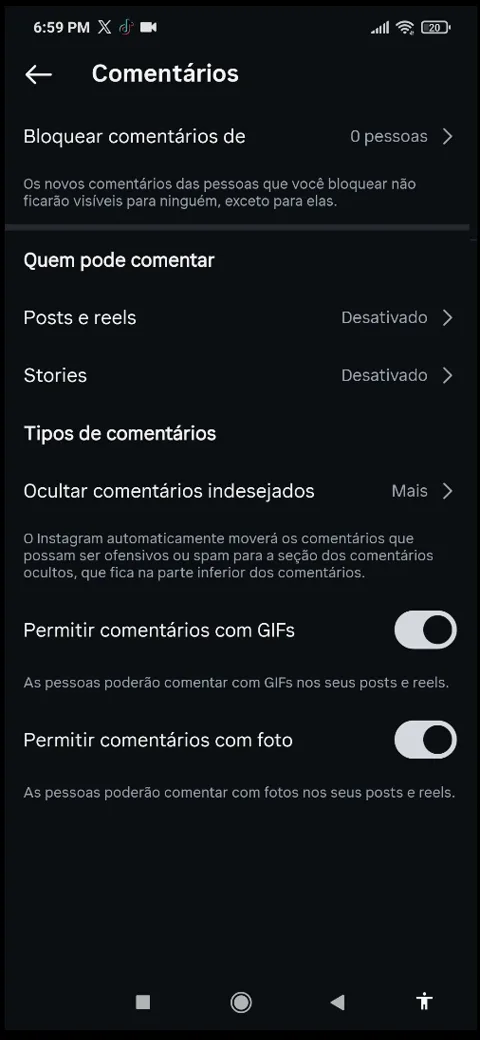
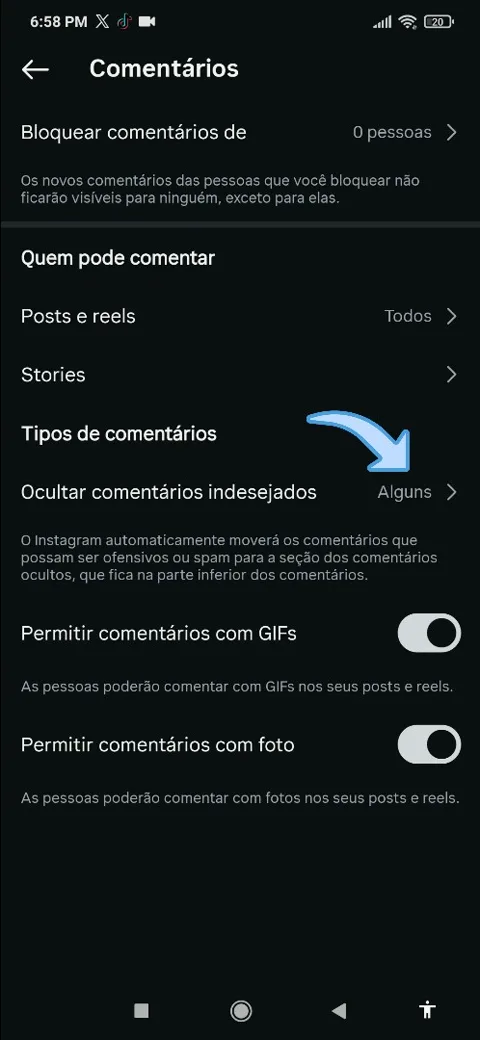
Refaz o passo a passo do Instagram com os prints novos

diff --git a/src/data/platforms.ts b/src/data/platforms.ts
@@ -63,17 +63,17 @@ export const plataformas: Platform[] = [
       {
         title: 'Deixe a conta privada',
         description:
-          'Na conta do menor, toque na foto do perfil, no canto inferior direito, e em seguida nos três riscos. Desça até "Privacidade da conta" e ative "Conta privada". Assim, só quem for aprovado como seguidor poderá ver as publicações, os seguidores e quem o perfil segue.',
+          'Na conta do menor, toque na foto do perfil, no canto inferior direito, e em seguida nos três riscos. Você será levado a tela de "Configuração e atividade". Desça até "Privacidade da conta" e ative "Conta privada". Assim, só quem for aprovado como seguidor poderá ver as publicações, os seguidores e quem o perfil segue.',
       },
       {
         title: 'Controle quem pode mandar mensagem',
         description:
-          'Ainda em "Configurações e atividade", procure "Mensagens e respostas a stories". Ali você decide quem pode enviar mensagem, adicionar a grupos e responder a stories, além de ativar a proteção contra nudez. O indicado é deixar tudo como "Pessoas que você segue" ou "Ninguém". Em "Pedidos de contato" dá para ocultar os pedidos indesejados, e em "Mostrar status da atividade" você esconde quando o perfil está online.',
+          'Ainda em "Configurações e atividade", procure "Mensagens e respostas a stories". Ali você decide quem pode enviar mensagem, adicionar a grupos e responder a stories, além de ativar a proteção contra nudez. O indicado é deixar tudo como "Pessoas que você segue" ou "Ninguém". Em "Pedidos de contato" dá para filtrar quem pode enviar pedidos de contato, adicionar o perfil a grupos e ocultar os pedidos de contato indesejados; em "Respostas a stories", escolhe quem pode respondê-lo; em "Mostrar status da atividade", pode esconder quando o perfil está online.',
       },
       {
         title: 'Filtre comentários e palavras',
         description:
-          'Em "Configurações e atividade", abra "Comentários". Ali você bloqueia comentários de usuários específicos, decide quem pode comentar em stories, posts e reels, e manda ocultar mais comentários que o Instagram considerar ofensivos. Desative também os comentários com GIFs e com foto. Em "Palavras ocultas", escreva a lista de palavras a bloquear: elas passam a ser censuradas nos comentários, e mensagens com essas palavras vão para a pasta de spam.',
+          'Em "Configurações e atividade", abra "Comentários". Ali você bloqueia comentários de usuários específicos, decide quem pode comentar em stories, posts e reels, e ocultar mais comentários que o Instagram considerar ofensivos. Desative também os comentários com GIFs e com foto. Em "Palavras ocultas", escreva a lista de palavras a bloquear: elas passam a ser censuradas nos comentários, e mensagens com essas palavras vão para a pasta de spam.',
       },
       {
         title: 'Filtre marcações e menções',
@@ -83,22 +83,22 @@ export const plataformas: Platform[] = [
       {
         title: 'Ative a Supervisão',
         description:
-          'Este é o passo mais importante, porque é ele que liga a sua conta à do adolescente. Para funcionar, as duas contas precisam se seguir. Na sua conta, abra "Configurações e atividade" e toque em "Supervisão para Contas de Adolescente". Clique em "Continuar", selecione o perfil do menor e em "Enviar convite". Na conta dele, em "Supervisão", o pedido aparece como pendente: basta abrir e clicar em "Aceitar".',
+          'Este é um passo importante, pois liga a sua conta à do adolescente. Para funcionar, as duas contas precisam se seguir. Na sua conta, abra "Configurações e atividade" e toque em "Supervisão para Contas de Adolescente". Clique em "Continuar", selecione o perfil do menor e em "Enviar convite". Na conta dele, abra "Configurações e atividade" e "Supervisão", o pedido aparece como pendente: basta abrir e clicar em "Aceitar". Também é possível começar pela conta do menor de idade, acessando "Supervisão" e enviando um convite para o adulto responsável.',
       },
       {
         title: 'Defina o limite de tempo',
         description:
-          'Com a supervisão ligada, abra o painel de supervisão em "Configurações e atividade", selecione o perfil do menor e acesse "Tempo de uso" e "Gerenciamento de tempo". Ali você define um limite diário de uso e os horários de pausa, em que o aplicativo fica bloqueado, como durante a noite.',
+          'Na sua conta, com a supervisão ligada, abra o painel de supervisão em "Configurações e atividade", selecione o perfil do menor e acesse "Tempo de uso" e "Gerenciamento de tempo". Ali você define um limite diário de uso e os horários de pausa, em que o aplicativo fica bloqueado, como durante a noite.',
       },
       {
         title: 'Revise o compartilhamento dos stories',
         description:
-          'Ainda na conta do adolescente, volte em "Configurações e atividade" e abra "Compartilhamento e reutilização". Ali você limita se as pessoas podem compartilhar os stories do perfil em mensagens ou nos próprios stories, e se podem compartilhar ou repostar as publicações.',
+          'Na conta do menor, volte em "Configurações e atividade" e abra "Compartilhamento e reutilização". Ali você limita se as pessoas podem compartilhar os stories do perfil em mensagens ou nos próprios stories, e se podem compartilhar ou repostar as publicações.',
       },
       {
         title: 'Use o painel de supervisão',
         description:
-          'Pelo painel de supervisão, em "Configurações e atividade", dá para ajustar o que não foi feito pelo perfil do menor: com quem ele conversa, quem são seus seguidores e quem ele segue, com quem compartilha a localização, quais contas estão bloqueadas, o tempo de uso, a privacidade do perfil, que tipo de conteúdo ele vê — como a faixa etária e a proteção contra nudez — e se ele pode fazer alterações sem a sua aprovação.',
+          'Pelo painel de supervisão, em "Configurações e atividade", dá para ajustar o que não foi feito pelo perfil do menor: com quem ele conversa, quem são seus seguidores e quem ele segue, com quem compartilha a localização, quais contas estão bloqueadas, o tempo de uso, a privacidade do perfil, que tipo de conteúdo ele vê — como a faixa etária e a proteção contra nudez — e quem pode interagir com ele. Além disso, pode decidir se ele pode fazer alterações sem a sua aprovação, assim desativando a supervisão da conta.',
       },
     ],
     recursos: [
@@ -109,43 +109,57 @@ export const plataformas: Platform[] = [
     ],
     video: {
       title: 'Como configurar a privacidade do Instagram',
-      src: 'https://www.youtube-nocookie.com/embed/8mReUcz2lwE',
+      src: 'https://www.youtube-nocookie.com/embed/ZZKudLqJmHg',
     },
     imagens: [
-      { passo: 1, src: '/passos/instagram/p1-01.webp', legenda: 'Na conta do menor, toque na foto do perfil e depois nos três riscos.' },
+      { passo: 1, src: '/passos/instagram/p1-01.webp', legenda: 'Na conta do menor, toque na foto do perfil no canto inferior direito, e depois nos três riscos no canto superior esquerdo, onde você será redirecionado para "Configurações e atividade".' },
       { passo: 1, src: '/passos/instagram/p1-02.webp', legenda: 'Em "Configurações e atividade", desça até "Privacidade da conta".' },
       { passo: 1, src: '/passos/instagram/p1-03.webp', legenda: 'Ative a opção "Conta privada".' },
       { passo: 1, src: '/passos/instagram/p1-04.webp', legenda: 'Confirme a troca para conta privada.' },
-      { passo: 2, src: '/passos/instagram/p2-01.webp', legenda: 'Abra "Mensagens e respostas a stories".' },
-      { passo: 2, src: '/passos/instagram/p2-02.webp', legenda: 'Ali ficam os pedidos de contato, as respostas a stories e a proteção contra nudez.' },
-      { passo: 2, src: '/passos/instagram/p2-03.webp', legenda: 'Em "Pedidos de contato", deixe como "Ninguém".' },
-      { passo: 2, src: '/passos/instagram/p2-04.webp', legenda: 'Ative "Ocultar pedidos de contato indesejados".' },
-      { passo: 2, src: '/passos/instagram/p2-05.webp', legenda: 'Em "Respostas ao story", escolha "Não permitir respostas ao story".' },
-      { passo: 2, src: '/passos/instagram/p2-06.webp', legenda: 'Desligue "Mostrar status da atividade" para esconder quando o perfil está online.' },
+      { passo: 2, src: '/passos/instagram/p2-01.webp', legenda: 'Em "Configurações e atividade", abra "Mensagens e respostas a stories".' },
+      { passo: 2, src: '/passos/instagram/p2-02.webp', legenda: 'Aqui ficam as definições sobre quem pode enviar mensagem, adicionar a grupos, responder a stories, ver que está online e ativar a proteção contra nudez.' },
+      { passo: 2, src: '/passos/instagram/p2-03.webp', legenda: 'Abra "Pedidos de contato" e, na seção "Quem pode enviar pedidos de contato a você", escolha "Ninguém".' },
+      { passo: 2, src: '/passos/instagram/p2-04.webp', legenda: 'Na seção "Quem pode adicionar você a conversas em grupo", selecione "Pessoas que você segue ou para quem já enviou mensagens".' },
+      { passo: 2, src: '/passos/instagram/p2-05.webp', legenda: 'Na seção "Tipos de pedidos de contato", selecione "Ocultar pedidos de contato indesejados".' },
+      { passo: 2, src: '/passos/instagram/p2-06.webp', legenda: 'Retorne a página anterior e selecione "Respostas ao story".' },
+      { passo: 2, src: '/passos/instagram/p2-07.webp', legenda: 'Selecione a opção "Não permitir respostas ao story".' },
+      { passo: 2, src: '/passos/instagram/p2-08.webp', legenda: 'Retorne a página anterior e selecione "Status da atividade".' },
+      { passo: 2, src: '/passos/instagram/p2-09.webp', legenda: 'Desligue "Mostrar status da atividade" para esconder quando o perfil está online.' },
       { passo: 3, src: '/passos/instagram/p3-01.webp', legenda: 'Em "Configurações e atividade", abra "Comentários".' },
-      { passo: 3, src: '/passos/instagram/p3-02.webp', legenda: 'Decida quem pode comentar em posts, reels e stories.' },
-      { passo: 3, src: '/passos/instagram/p3-03.webp', legenda: 'Abra "Ocultar comentários indesejados".' },
-      { passo: 3, src: '/passos/instagram/p3-04.webp', legenda: 'Escolha "Mais" para que sejam ocultados mais comentários.' },
-      { passo: 3, src: '/passos/instagram/p3-05.webp', legenda: 'Desative os comentários com GIFs e com foto.' },
-      { passo: 3, src: '/passos/instagram/p3-06.webp', legenda: 'De volta à lista, abra "Palavras ocultas".' },
-      { passo: 3, src: '/passos/instagram/p3-07.webp', legenda: 'Digite as palavras a bloquear: elas passam a ser censuradas nos comentários.' },
-      { passo: 4, src: '/passos/instagram/p4-01.webp', legenda: 'Abra "Marcações e menções".' },
-      { passo: 4, src: '/passos/instagram/p4-02.webp', legenda: 'Escolha quem pode marcar e quem pode mencionar o perfil.' },
-      { passo: 4, src: '/passos/instagram/p4-03.webp', legenda: 'Ative "Aprovar marcações manualmente".' },
-      { passo: 5, src: '/passos/instagram/p5-01.webp', legenda: 'Na sua conta, abra "Supervisão para Contas de Adolescente".' },
+      { passo: 3, src: '/passos/instagram/p3-02.webp', legenda: 'Em "Bloquear comentários de", você pode selecionar usuários que não devem comentar.' },
+      { passo: 3, src: '/passos/instagram/p3-03.webp', legenda: 'Na seção "Quem pode comentar", defina quem pode comentar em posts, reels e stories.' },
+      { passo: 3, src: '/passos/instagram/p3-04.webp', legenda: 'Para ocultar mais comentários que o Instagram considera como ofensivo, abra "Ocultar comentários indesejados".' },
+      { passo: 3, src: '/passos/instagram/p3-05.webp', legenda: 'Escolha "Mais" para que sejam ocultados mais comentários.' },
+      { passo: 3, src: '/passos/instagram/p3-06.webp', legenda: 'Retornando a página anterior, desative os comentários com GIFs e foto.' },
+      { passo: 3, src: '/passos/instagram/p3-07.webp', legenda: 'Retornando mais uma página, desça e abra "Palavras ocultas" para escrever uma lista de palavras a serem bloqueadas automaticamente.' },
+      { passo: 3, src: '/passos/instagram/p3-08.webp', legenda: 'Digite as palavras a bloquear: elas passam a ser censuradas nos comentários, e mensagens que contenham elas são transferidas para a pasta de spam.' },
+      { passo: 4, src: '/passos/instagram/p4-01.webp', legenda: 'Ainda em "Configurações e atividade", abra "Marcações e menções".' },
+      { passo: 4, src: '/passos/instagram/p4-02.webp', legenda: 'Na seção "Quem pode marcar você", selecione "Não permitir marcações".' },
+      { passo: 4, src: '/passos/instagram/p4-03.webp', legenda: 'Na seção "Como gerenciar marcações", ative a opção "Aprovar marcações manualmente" e selecione "Ativar".' },
+      { passo: 4, src: '/passos/instagram/p4-04.webp', legenda: 'Na seção "Quem pode @mencionar você", selecione "Não permitir menções".' },
+      { passo: 5, src: '/passos/instagram/p5-01.webp', legenda: 'Para ativar a supervisão, ambas as contas devem se seguir. Na sua conta, acesse "Configurações e atividade" e abra "Supervisão para Contas de Adolescente".' },
       { passo: 5, src: '/passos/instagram/p5-02.webp', legenda: 'Leia a apresentação e clique em "Continuar".' },
       { passo: 5, src: '/passos/instagram/p5-03.webp', legenda: 'Selecione o perfil do menor e envie o convite.' },
-      { passo: 5, src: '/passos/instagram/p5-04.webp', legenda: 'Na conta do menor, o pedido aparece na Central da Família.' },
+      { passo: 5, src: '/passos/instagram/p5-04.webp', legenda: 'Para aceitar o convite, entre na conta do menor e, em "Configurações e atividade", abra "Supervisão", onde será exibido o pedido pendente.' },
       { passo: 5, src: '/passos/instagram/p5-05.webp', legenda: 'Abra o convite e clique em "Aceitar".' },
-      { passo: 6, src: '/passos/instagram/p6-01.webp', legenda: 'No painel de supervisão, clique em "Ver" no perfil do menor.' },
-      { passo: 6, src: '/passos/instagram/p6-02.webp', legenda: 'Em "Gerenciamento de tempo", defina o modo de descanso.' },
-      { passo: 6, src: '/passos/instagram/p6-03.webp', legenda: 'Escolha o limite diário de uso e salve.' },
-      { passo: 7, src: '/passos/instagram/p7-01.webp', legenda: 'Abra "Compartilhamento e reutilização" e limite os compartilhamentos do story.' },
-      { passo: 7, src: '/passos/instagram/p7-02.webp', legenda: 'Defina também se as publicações podem ser compartilhadas ou repostadas.' },
-      { passo: 8, src: '/passos/instagram/p8-01.webp', legenda: 'Em "Configurações e atividade", abra "Supervisão".' },
-      { passo: 8, src: '/passos/instagram/p8-02.webp', legenda: 'Em "Conexões" você vê com quem ele conversa, quem o segue e a localização.' },
-      { passo: 8, src: '/passos/instagram/p8-03.webp', legenda: 'Em "O que o adolescente pode ver" ficam a faixa etária e a proteção contra nudez.' },
-      { passo: 8, src: '/passos/instagram/p8-04.webp', legenda: 'E aqui você decide se ele pode fazer alterações sem a sua aprovação.' },
+      { passo: 6, src: '/passos/instagram/p6-01.webp', legenda: 'Com a supervisão ligada, abra o painel de supervisão em "Configuração e atividade".' },
+      { passo: 6, src: '/passos/instagram/p6-02.webp', legenda: 'No painel de supervisão, clique em "Ver" no perfil do menor.' },
+      { passo: 6, src: '/passos/instagram/p6-03.webp', legenda: 'Na seção "Tempo de uso", selecione "Gerenciamento de tempo".' },
+      { passo: 6, src: '/passos/instagram/p6-04.webp', legenda: 'Aqui, na seção "Modo de descanso", você pode definir os horários de pausa em que o aplicativo fica bloqueado, como a noite, e na seção "Limite diário", definir um limite diário de uso.' },
+      { passo: 7, src: '/passos/instagram/p7-01.webp', legenda: 'Na conta do menor, acesse "Configurações e atividade" e "Compartilhamento e reutilização".' },
+      { passo: 7, src: '/passos/instagram/p7-02.webp', legenda: 'Na seção "Permita que as pessoas compartilhem seus stories", desative a opção "Compartilhamentos do story".' },
+      { passo: 7, src: '/passos/instagram/p7-03.webp', legenda: 'Na seção "Stories para stories", selecione a opção "Desativado".' },
+      { passo: 7, src: '/passos/instagram/p7-04.webp', legenda: 'Na seção "Permita que as pessoas compartilhem seus posts e reels", desative "Posts e reels no Stories" e "Reposts em posts e reels".' },
+      { passo: 8, src: '/passos/instagram/p8-01.webp', legenda: 'É possível ajustar configurações através do painel de supervisão. No seu perfil, acesse "Configurações e atividade" e selecione "Supervisão".' },
+      { passo: 8, src: '/passos/instagram/p8-02.webp', legenda: 'Em "Com quem o adolescente conversa", você pode verificar com quem o menor se relacionou, seja por mensagens, reposts ou reações.' },
+      { passo: 8, src: '/passos/instagram/p8-03.webp', legenda: 'Em "Seguidores e Seguindo", você pode verificar quem são os seguidores da conta do menor e quem o segue.' },
+      { passo: 8, src: '/passos/instagram/p8-04.webp', legenda: 'Em "Compartilhamento de localização", você pode verificar com quem ele compartilha a localização e desativar ao desmarcar a opção.' },
+      { passo: 8, src: '/passos/instagram/p8-05.webp', legenda: 'Em "Perfis bloqueados", você pode verificar quais contas estão bloqueadas.' },
+      { passo: 8, src: '/passos/instagram/p8-06.webp', legenda: 'Em "Tempo de uso", você pode observar um gráfico do tempo que o menor passou no aplicativo nos últimos 7 dias, além de ajustar o quanto ele pode usar.' },
+      { passo: 8, src: '/passos/instagram/p8-07.webp', legenda: 'Em "Privacidade do perfil", você pode definir se o perfil será público ou privado.' },
+      { passo: 8, src: '/passos/instagram/p8-08.webp', legenda: 'Em "Qual conteúdo o adolescente vê", você define qual o tipo de conteúdo ele terá acesso, como a faixa etária e ativar a proteção contra nudez.' },
+      { passo: 8, src: '/passos/instagram/p8-09.webp', legenda: 'Em "Quem pode interagir com o adolescente", você pode definir quem pode enviar pedidos de contato, quem pode adicioná-lo a grupos e quem pode o marcar.' },
+      { passo: 8, src: '/passos/instagram/p8-10.webp', legenda: 'A opção "Remover supervisão" permite ao menor fazer alterações sem você, desativando a supervisão da conta dele.' },
     ],
   },
   {
